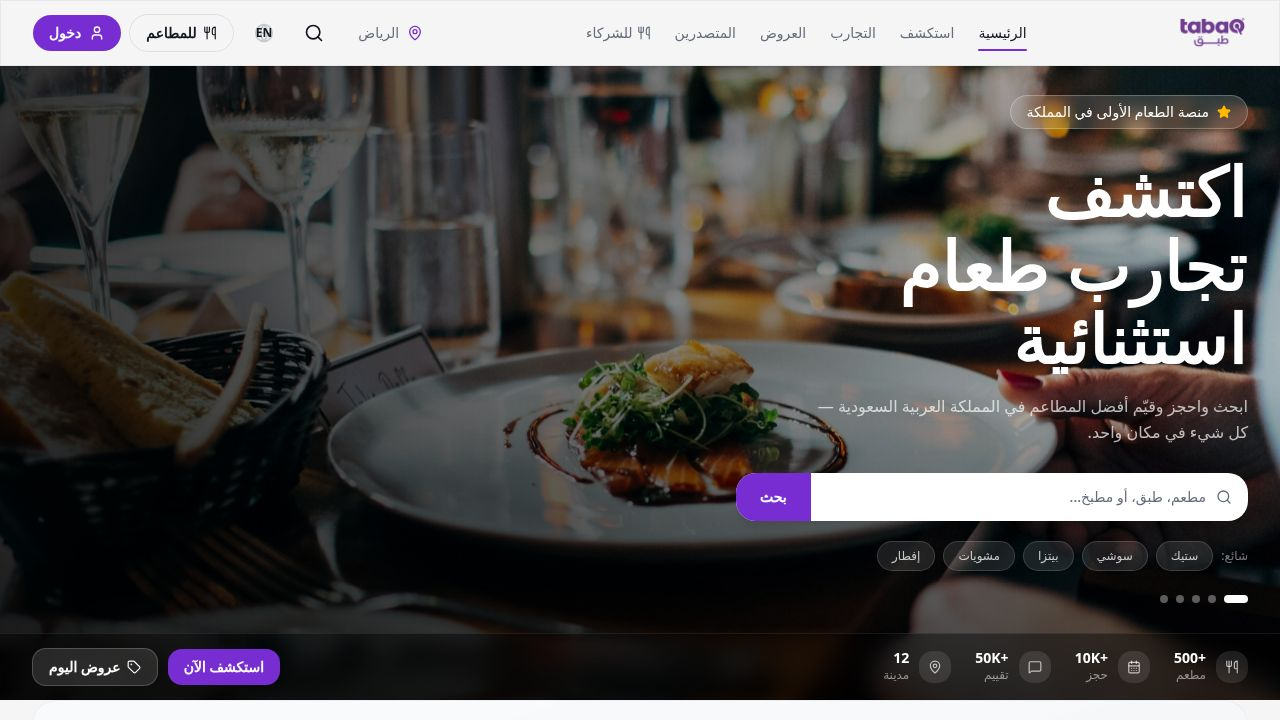
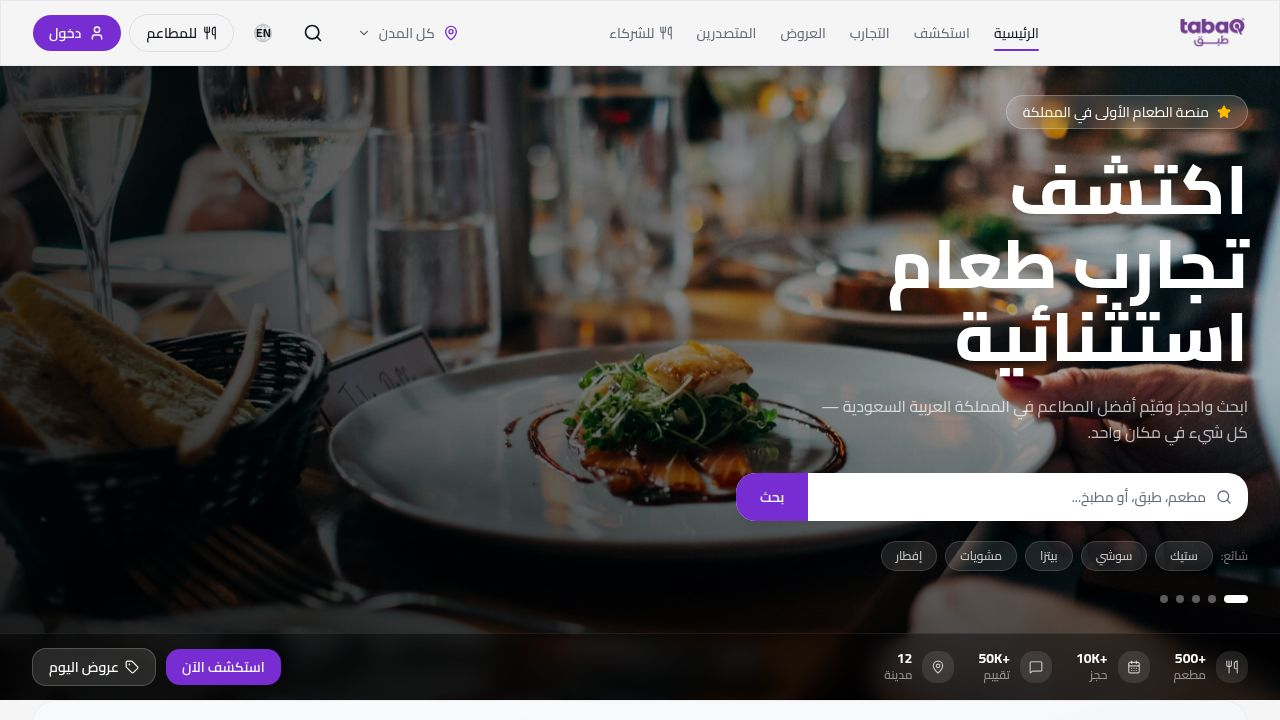
Update admin panel to show correct experience-related information
Fixes header city hook queryKey and removes outdated admin experience tabs.

Replit-Commit-Author: Agent
Replit-Commit-Session-Id: 2ba305e8-824b-4f25-ad41-6b3c421cf513
Replit-Commit-Checkpoint-Type: full_checkpoint
Replit-Commit-Event-Id: 70e807cf-d98a-4fb8-8347-45e2a8a360f3
Replit-Commit-Screenshot-Url: https://storage.googleapis.com/screenshot-production-us-central1/fa541f62-d214-403a-bc27-8a9b9f7b65c3/2ba305e8-824b-4f25-ad41-6b3c421cf513/heoGXQN
Replit-Helium-Checkpoint-Created: true

diff --git a/artifacts/tabaq/src/pages/AdminPanelPage.tsx b/artifacts/tabaq/src/pages/AdminPanelPage.tsx
@@ -67,9 +67,6 @@ export function AdminPanelPage() {
   const [modules, setModules] = useState<Module[]>(INITIAL_MODULES);
   const [searchQuery, setSearchQuery] = useState('');
   const [restaurantStatusFilter, setRestaurantStatusFilter] = useState('all');
-  const [expStatusFilter, setExpStatusFilter] = useState('all');
-  const [expSubTab, setExpSubTab] = useState<'applications' | 'experiences'>('applications');
-
   const apiBase = import.meta.env.BASE_URL?.replace(/\/$/, '') || '';
 
   const { data: realStats } = useQuery({
@@ -407,34 +404,6 @@ export function AdminPanelPage() {
     enabled: activeTab === 'settlement',
   });
 
-  const { data: adminExperiencesData, refetch: refetchAdminExperiences } = useQuery({
-    queryKey: ['admin-experiences'],
-    queryFn: async () => {
-      const res = await fetch('/api/admin/experiences?limit=50', { headers: getAuthHeaders() });
-      if (!res.ok) return null;
-      return res.json();
-    },
-    retry: false,
-    staleTime: 30000,
-    enabled: activeTab === 'experiences',
-  });
-
-  const { data: providerApplicationsData, refetch: refetchProviderApplications } = useQuery({
-    queryKey: ['admin-provider-applications'],
-    queryFn: async () => {
-      const res = await fetch('/api/provider-applications?limit=50', { headers: getAuthHeaders() });
-      if (!res.ok) return null;
-      return res.json();
-    },
-    retry: false,
-    staleTime: 30000,
-    enabled: activeTab === 'experiences',
-  });
-
-  const liveAdminExperiences: any[] = adminExperiencesData?.experiences ?? [];
-  const liveProviderApplications: any[] = providerApplicationsData?.applications ?? [];
-  const pendingProviderAppsCount = liveProviderApplications.filter((a: any) => a.status === 'pending').length;
-
   const liveCampaigns: any[] = Array.isArray(campaignsData) ? campaignsData : (campaignsData?.campaigns ?? []);
   const livePromoCodes: any[] = Array.isArray(promoCodesData) ? promoCodesData : (promoCodesData?.codes ?? []);
   const liveFlaggedReviews: any[] = (recentReviewsData?.reviews ?? []).filter((r: any) => parseFloat(r.ratingOverall ?? '5') <= 2).slice(0, 5);
@@ -576,7 +545,6 @@ export function AdminPanelPage() {
     { id: 'promo-codes', label: 'Promo Codes', icon: Tag },
     { id: 'settlement', label: 'Settlement', icon: Receipt },
     { id: 'registrations', label: 'Registrations', icon: Plus, badge: pendingApplications.length },
-    { id: 'experiences', label: 'Experiences', icon: ChefHat, badge: pendingProviderAppsCount || undefined },
     { id: 'restaurants', label: 'Restaurants', icon: Utensils },
     { id: 'users', label: 'Users', icon: Users },
     { id: 'bookings', label: 'Bookings', icon: CalendarDays },
@@ -593,7 +561,7 @@ export function AdminPanelPage() {
   ];
 
   const expNavItems: { id: AdminTab; label: string; icon: React.ElementType; badge?: number }[] = [
-    { id: 'exp-providers', label: 'Providers', icon: Users },
+    { id: 'exp-providers', label: 'Providers', icon: Users, badge: pendingProviderCount || undefined },
     { id: 'exp-listings', label: 'Experiences', icon: MapPin },
     { id: 'exp-bookings', label: 'Bookings', icon: CalendarDays },
     { id: 'exp-settings', label: 'Settings', icon: Settings },
@@ -2303,258 +2271,6 @@ export function AdminPanelPage() {
             </div>
           )}
 
-          {/* ── EXPERIENCES ── */}
-          {activeTab === 'experiences' && (
-            <div className="space-y-5">
-              {/* Sub-tab switcher */}
-              <div className="flex items-center gap-2">
-                {(['applications', 'experiences'] as const).map(sub => (
-                  <button
-                    key={sub}
-                    onClick={() => setExpSubTab(sub)}
-                    className={`flex items-center gap-2 px-4 py-2 rounded-xl text-sm font-semibold transition-all ${
-                      expSubTab === sub
-                        ? 'bg-primary text-primary-foreground shadow-sm'
-                        : 'bg-secondary text-muted-foreground hover:text-foreground'
-                    }`}
-                  >
-                    {sub === 'applications' ? <><Sparkles className="w-4 h-4" /> Provider Applications {pendingProviderAppsCount > 0 && <span className="bg-white/20 px-1.5 py-0.5 rounded-full text-xs">{pendingProviderAppsCount}</span>}</> : <><ChefHat className="w-4 h-4" /> All Experiences</>}
-                  </button>
-                ))}
-              </div>
-
-              {/* ── Provider Applications ── */}
-              {expSubTab === 'applications' && (
-                <div className="space-y-4">
-                  <p className="text-muted-foreground text-sm">{liveProviderApplications.length} applications total · {pendingProviderAppsCount} pending review</p>
-                  {liveProviderApplications.length === 0 && (
-                    <div className="bg-card border border-border rounded-2xl p-10 text-center">
-                      <ChefHat className="w-12 h-12 text-muted-foreground/30 mx-auto mb-3" />
-                      <p className="text-muted-foreground font-medium">No provider applications yet</p>
-                      <p className="text-sm text-muted-foreground/70 mt-1">Applications will appear here when hosts register</p>
-                    </div>
-                  )}
-                  {liveProviderApplications.map((app: any) => {
-                    const statusColor: Record<string, string> = {
-                      pending: 'bg-amber-100 text-amber-700',
-                      approved: 'bg-green-100 text-green-700',
-                      rejected: 'bg-red-100 text-red-700',
-                    };
-                    const handleAppAction = async (status: 'approved' | 'rejected') => {
-                      await fetch(`/api/provider-applications/${app.id}`, {
-                        method: 'PATCH',
-                        headers: getAuthHeaders(),
-                        body: JSON.stringify({ status }),
-                      });
-                      refetchProviderApplications();
-                    };
-                    return (
-                      <div key={app.id} className="bg-card border border-border rounded-2xl p-5">
-                        <div className="flex items-start justify-between gap-4">
-                          <div className="flex items-start gap-4">
-                            <div className="w-12 h-12 bg-violet-100 rounded-2xl flex items-center justify-center shrink-0">
-                              <ChefHat className="w-6 h-6 text-violet-600" />
-                            </div>
-                            <div>
-                              <h3 className="font-bold text-foreground">{app.businessNameEn}</h3>
-                              <p className="text-sm text-muted-foreground">{app.businessNameAr} · <span className="capitalize">{(app.businessType ?? '').replace(/_/g, ' ')}</span></p>
-                              <div className="flex flex-wrap items-center gap-3 mt-2 text-xs text-muted-foreground">
-                                <span className="flex items-center gap-1"><MessageSquare className="w-3 h-3" />{app.contactEmail}</span>
-                                {app.contactPhone && <span className="flex items-center gap-1"><MapPin className="w-3 h-3" />{app.contactPhone}</span>}
-                                <span className="flex items-center gap-1"><Clock className="w-3 h-3" />{app.submittedAt ? new Date(app.submittedAt).toLocaleDateString() : '—'}</span>
-                              </div>
-                              {app.adminNotes && (
-                                <p className="mt-2 text-xs bg-secondary px-3 py-1.5 rounded-lg text-muted-foreground">Note: {app.adminNotes}</p>
-                              )}
-                            </div>
-                          </div>
-                          <span className={`shrink-0 inline-flex items-center gap-1 text-xs px-2.5 py-1 rounded-full font-semibold ${statusColor[app.status] ?? 'bg-amber-100 text-amber-700'}`}>
-                            {app.status === 'approved' && <CheckCircle2 className="w-3 h-3" />}
-                            {app.status === 'rejected' && <XCircle className="w-3 h-3" />}
-                            {app.status === 'pending' && <AlertCircle className="w-3 h-3" />}
-                            {(app.status ?? 'pending').charAt(0).toUpperCase() + (app.status ?? 'pending').slice(1)}
-                          </span>
-                        </div>
-                        {app.status === 'pending' && (
-                          <div className="flex gap-2 mt-4 pt-4 border-t border-border">
-                            <button
-                              onClick={() => handleAppAction('approved')}
-                              className="flex items-center gap-1.5 bg-green-600 text-white px-4 py-2 rounded-xl text-sm font-semibold hover:bg-green-700 transition-colors"
-                            >
-                              <CheckCircle2 className="w-4 h-4" /> Approve
-                            </button>
-                            <button
-                              onClick={() => handleAppAction('rejected')}
-                              className="flex items-center gap-1.5 bg-red-100 text-red-700 px-4 py-2 rounded-xl text-sm font-semibold hover:bg-red-200 transition-colors"
-                            >
-                              <XCircle className="w-4 h-4" /> Reject
-                            </button>
-                          </div>
-                        )}
-                      </div>
-                    );
-                  })}
-                </div>
-              )}
-
-              {/* ── All Experiences ── */}
-              {expSubTab === 'experiences' && (
-                <div className="space-y-4">
-                  {/* Status filter */}
-                  <div className="flex flex-wrap items-center gap-2">
-                    {['all', 'pending', 'active', 'suspended', 'draft'].map(f => (
-                      <button
-                        key={f}
-                        onClick={() => setExpStatusFilter(f)}
-                        className={`px-4 py-1.5 rounded-xl text-sm font-semibold transition-all capitalize ${
-                          expStatusFilter === f
-                            ? 'bg-primary text-primary-foreground'
-                            : 'bg-secondary text-muted-foreground hover:text-foreground'
-                        }`}
-                      >
-                        {f === 'all' ? 'All Experiences' : f.charAt(0).toUpperCase() + f.slice(1)}
-                      </button>
-                    ))}
-                    <span className="ms-auto text-xs text-muted-foreground">{liveAdminExperiences.filter((e: any) => expStatusFilter === 'all' || e.status === expStatusFilter).length} experiences</span>
-                  </div>
-
-                  {liveAdminExperiences.length === 0 && (
-                    <div className="bg-card border border-border rounded-2xl p-10 text-center">
-                      <ChefHat className="w-12 h-12 text-muted-foreground/30 mx-auto mb-3" />
-                      <p className="text-muted-foreground font-medium">No experiences found</p>
-                      <p className="text-sm text-muted-foreground/70 mt-1">Experiences created by providers will appear here</p>
-                    </div>
-                  )}
-
-                  <div className="space-y-3">
-                    {liveAdminExperiences
-                      .filter((e: any) => expStatusFilter === 'all' || e.status === expStatusFilter)
-                      .map((exp: any) => {
-                        const statusColor: Record<string, string> = {
-                          pending: 'bg-amber-100 text-amber-700',
-                          active: 'bg-green-100 text-green-700',
-                          suspended: 'bg-red-100 text-red-700',
-                          draft: 'bg-secondary text-muted-foreground',
-                        };
-                        const handleExpStatus = async (status: string) => {
-                          await fetch(`/api/admin/experiences/${exp.id}/status`, {
-                            method: 'PATCH',
-                            headers: getAuthHeaders(),
-                            body: JSON.stringify({ status }),
-                          });
-                          refetchAdminExperiences();
-                        };
-                        return (
-                          <div key={exp.id} className="bg-card border border-border rounded-2xl p-5">
-                            <div className="flex items-start gap-4">
-                              {exp.coverImage && (
-                                <img src={exp.coverImage} alt={exp.titleEn} className="w-20 h-16 rounded-xl object-cover shrink-0" />
-                              )}
-                              {!exp.coverImage && (
-                                <div className="w-20 h-16 rounded-xl bg-violet-100 flex items-center justify-center shrink-0">
-                                  <ChefHat className="w-8 h-8 text-violet-400" />
-                                </div>
-                              )}
-                              <div className="flex-1 min-w-0">
-                                <div className="flex items-start justify-between gap-3">
-                                  <div>
-                                    <h3 className="font-bold text-foreground truncate">{exp.titleEn}</h3>
-                                    <p className="text-sm text-muted-foreground">{exp.titleAr}</p>
-                                  </div>
-                                  <span className={`shrink-0 inline-flex items-center gap-1 text-xs px-2.5 py-1 rounded-full font-semibold capitalize ${statusColor[exp.status] ?? 'bg-secondary text-muted-foreground'}`}>
-                                    {exp.status}
-                                  </span>
-                                </div>
-                                <div className="flex flex-wrap items-center gap-3 mt-2 text-xs text-muted-foreground">
-                                  <span className="capitalize bg-secondary px-2 py-0.5 rounded-lg">{(exp.category ?? '').replace(/_/g, ' ')}</span>
-                                  <span className="flex items-center gap-1"><MapPin className="w-3 h-3" />{exp.city}</span>
-                                  {exp.durationMinutes && <span className="flex items-center gap-1"><Clock className="w-3 h-3" />{exp.durationMinutes}min</span>}
-                                  {exp.pricePerPerson && <span className="font-semibold text-foreground">{Number(exp.pricePerPerson).toLocaleString()} SAR/person</span>}
-                                </div>
-                              </div>
-                            </div>
-                            <div className="flex gap-2 mt-4 pt-4 border-t border-border">
-                              {exp.status !== 'active' && (
-                                <button
-                                  onClick={() => handleExpStatus('active')}
-                                  className="flex items-center gap-1.5 bg-green-600 text-white px-4 py-2 rounded-xl text-sm font-semibold hover:bg-green-700 transition-colors"
-                                >
-                                  <CheckCircle2 className="w-4 h-4" /> Activate
-                                </button>
-                              )}
-                              {exp.status !== 'suspended' && (
-                                <button
-                                  onClick={() => handleExpStatus('suspended')}
-                                  className="flex items-center gap-1.5 bg-red-100 text-red-700 px-4 py-2 rounded-xl text-sm font-semibold hover:bg-red-200 transition-colors"
-                                >
-                                  <Ban className="w-4 h-4" /> Suspend
-                                </button>
-                              )}
-                              {exp.status !== 'pending' && (
-                                <button
-                                  onClick={() => handleExpStatus('pending')}
-                                  className="flex items-center gap-1.5 bg-amber-100 text-amber-700 px-4 py-2 rounded-xl text-sm font-semibold hover:bg-amber-200 transition-colors"
-                                >
-                                  <AlertCircle className="w-4 h-4" /> Set Pending
-                                </button>
-                              )}
-                              <Link href={`/experiences/${exp.id}`}>
-                                <button className="flex items-center gap-1.5 bg-secondary text-muted-foreground px-4 py-2 rounded-xl text-sm font-semibold hover:text-foreground transition-colors ms-auto">
-                                  <Eye className="w-4 h-4" /> View
-                                </button>
-                              </Link>
-                            </div>
-                          </div>
-                        );
-                      })}
-                  </div>
-                </div>
-              )}
-            </div>
-          )}
-
-          {/* ── SETTINGS ── */}
-          {activeTab === 'settings' && (
-            <div className="space-y-6 max-w-2xl">
-              {[
-                {
-                  section: 'General',
-                  fields: [
-                    { label: 'Platform Name', value: 'Tabaq | طبق', type: 'text' },
-                    { label: 'Support Email', value: 'support@tabaq.sa', type: 'email' },
-                    { label: 'Default Country', value: 'Saudi Arabia', type: 'text' },
-                    { label: 'Default Currency', value: 'SAR', type: 'text' },
-                  ]
-                },
-                {
-                  section: 'Commission & Billing',
-                  fields: [
-                    { label: 'Starter Plan Price (SAR/month)', value: '0', type: 'number' },
-                    { label: 'Professional Plan Price (SAR/month)', value: '499', type: 'number' },
-                    { label: 'Enterprise Plan Price (custom)', value: 'Custom quote', type: 'text' },
-                  ]
-                },
-              ].map(section => (
-                <div key={section.section} className="bg-card border border-border rounded-2xl overflow-hidden">
-                  <div className="px-5 py-4 border-b border-border bg-secondary/30">
-                    <h3 className="font-bold text-foreground">{section.section} Settings</h3>
-                  </div>
-                  <div className="p-5 space-y-4">
-                    {section.fields.map(field => (
-                      <div key={field.label} className="flex items-center justify-between gap-4">
-                        <label className="text-sm font-medium text-foreground">{field.label}</label>
-                        <input type={field.type} defaultValue={field.value} className="h-10 px-3 rounded-xl border border-input bg-background text-sm w-48 text-end focus:outline-none focus:ring-2 focus:ring-primary/20" />
-                      </div>
-                    ))}
-                  </div>
-                  <div className="px-5 py-4 border-t border-border">
-                    <Button size="sm">Save {section.section} Settings</Button>
-                  </div>
-                </div>
-              ))}
-            </div>
-          )}
-
           {/* ── EXPERIENCES: PROVIDER APPLICATIONS ── */}
           {activeTab === 'exp-providers' && (
             <div className="space-y-5">
@@ -2592,7 +2308,7 @@ export function AdminPanelPage() {
                           <textarea
                             rows={3}
                             placeholder="Reason for decision..."
-                            value={providerActionState?.id === selectedProvider.id ? providerActionState.note : ''}
+                            value={providerActionState !== null && providerActionState.id === selectedProvider.id ? providerActionState.note : ''}
                             onChange={e => setProviderActionState(s => s ? { ...s, note: e.target.value } : { id: selectedProvider.id, action: 'approve', note: e.target.value })}
                             className="w-full px-3 py-2 rounded-xl border border-input bg-background text-sm resize-none focus:outline-none focus:ring-2 focus:ring-primary/20"
                           />

diff --git a/artifacts/tabaq/src/components/layout/Header.tsx b/artifacts/tabaq/src/components/layout/Header.tsx
@@ -61,7 +61,7 @@ export function Header() {
   const unreadCount = useUnreadCount(token, user);
   const { data: countries } = useListCountries();
   const countryId = countries?.find((c) => c.code === country.code)?.id ?? null;
-  const { data: cities } = useListCitiesByCountry(countryId ?? 0, { query: { enabled: countryId !== null } });
+  const { data: cities } = useListCitiesByCountry(countryId ?? 0, { query: { queryKey: ['cities-by-country', countryId], enabled: countryId !== null } });
 
   const neighborhoods = getNeighborhoods();
 
